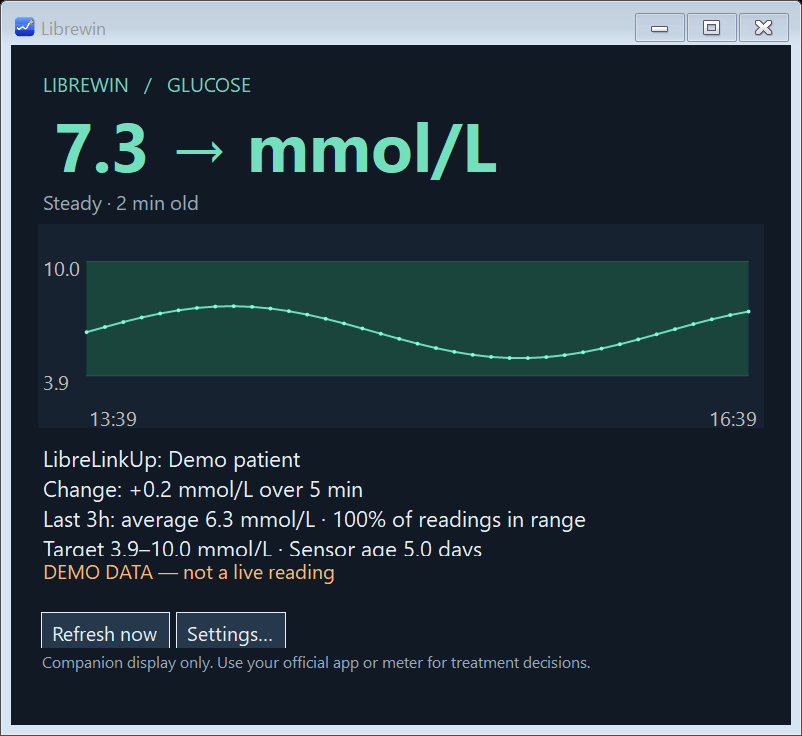
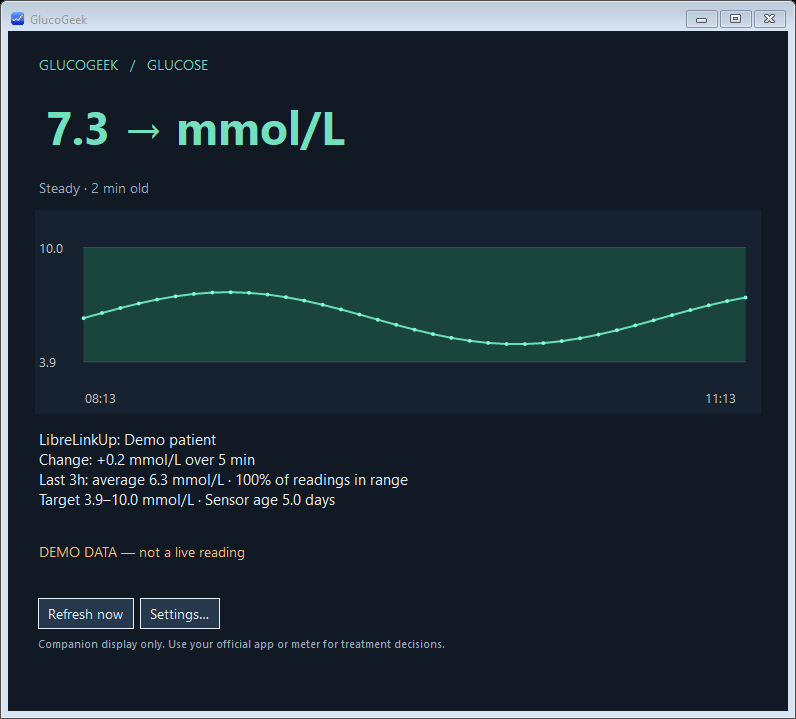
Rename Windows app to GlucoGeek with compatible installer upgrade and profile

diff --git a/Program.cs b/Program.cs
@@ -1,6 +1,6 @@
 using System.Runtime.InteropServices;
 
-namespace Librewin;
+namespace GlucoGeek;
 
 internal static class Program
 {
@@ -40,10 +40,11 @@ internal static class Program
             bitmap.Save(args.Last());
             return 0;
         }
+        // Share the previous name's lock to prevent two versions polling at once.
         using var mutex = new Mutex(true, @"Local\Librewin", out bool first);
-        if (!first) { MessageBox.Show("Librewin is already running. Click its system tray icon.", "Librewin"); return 0; }
+        if (!first) { MessageBox.Show("GlucoGeek is already running. Click its system tray icon.", "GlucoGeek"); return 0; }
         try { Application.Run(new TrayApp(Settings.Load(), args.Contains("--background"))); }
-        catch (Exception ex) { MessageBox.Show("Librewin could not start: " + ex.Message, "Librewin", MessageBoxButtons.OK, MessageBoxIcon.Error); return 1; }
+        catch (Exception ex) { MessageBox.Show("GlucoGeek could not start: " + ex.Message, "GlucoGeek", MessageBoxButtons.OK, MessageBoxIcon.Error); return 1; }
         return 0;
     }
 }
@@ -52,7 +53,7 @@ internal sealed class TrayApp : ApplicationContext
 {
     private Settings settings;
     private IGlucoseClient client;
-    private readonly NotifyIcon tray = new() { Visible = true, Text = "Librewin" };
+    private readonly NotifyIcon tray = new() { Visible = true, Text = "GlucoGeek" };
     private Icon? currentIcon;
     private readonly Dashboard dashboard = new();
     private readonly System.Windows.Forms.Timer timer = new() { Interval = 15000 };
@@ -69,11 +70,11 @@ internal sealed class TrayApp : ApplicationContext
         _ = dashboard.Handle;
         SynchronizationContext.SetSynchronizationContext(new WindowsFormsSynchronizationContext());
         var menu = new ContextMenuStrip();
-        menu.Items.Add("Open Librewin", null, (_, _) => Open());
+        menu.Items.Add("Open GlucoGeek", null, (_, _) => Open());
         menu.Items.Add("Refresh now", null, async (_, _) => await Refresh());
         menu.Items.Add("Settings…", null, async (_, _) => await Configure());
         menu.Items.Add(new ToolStripSeparator());
-        menu.Items.Add("Quit Librewin", null, (_, _) => ExitThread());
+        menu.Items.Add("Quit GlucoGeek", null, (_, _) => ExitThread());
         tray.ContextMenuStrip = menu;
         tray.MouseClick += (_, e) => { if (e.Button == MouseButtons.Left) Open(); };
         dashboard.RefreshRequested += async () => await Refresh();
@@ -137,7 +138,7 @@ internal sealed class TrayApp : ApplicationContext
             currentIcon = icon;
         }
         finally { DestroyIcon(handle); }
-        string tooltip = "Librewin: " + value + (snapshot == null ? "" : " " + (settings.IsMmol(snapshot) ? "mmol/L" : "mg/dL") + (settings.ShowTrend ? " " + snapshot.Current.Arrow : "")) + (error.Length > 0 ? " — refresh failed" : stale ? " — stale / unavailable" : "");
+        string tooltip = "GlucoGeek: " + value + (snapshot == null ? "" : " " + (settings.IsMmol(snapshot) ? "mmol/L" : "mg/dL") + (settings.ShowTrend ? " " + snapshot.Current.Arrow : "")) + (error.Length > 0 ? " — refresh failed" : stale ? " — stale / unavailable" : "");
         tray.Text = tooltip[..Math.Min(63, tooltip.Length)];
     }
     [DllImport("user32.dll")] private static extern bool DestroyIcon(IntPtr icon);

diff --git a/Settings.cs b/Settings.cs
@@ -3,7 +3,7 @@ using System.Text;
 using System.Text.Json;
 using Microsoft.Win32;
 
-namespace Librewin;
+namespace GlucoGeek;
 
 internal sealed class Settings
 {
@@ -26,6 +26,7 @@ internal sealed class Settings
     public string ApiVersion { get; set; } = "4.16.0";
     public string ApiProduct { get; set; } = "llu.ios";
     public string UserAgent { get; set; } = "Mozilla/5.0 (iPhone; CPU OS 17_4.1 like Mac OS X) AppleWebKit/536.26 (KHTML, like Gecko) Version/17.4.1 Mobile/10A5355d Safari/8536.25";
+    // Preserve the original profile so upgrading keeps both providers' protected credentials.
     public static string Location => Path.Combine(Environment.GetFolderPath(Environment.SpecialFolder.LocalApplicationData), "Librewin", "settings.json");
     public static Settings Load() => File.Exists(Location) ? JsonSerializer.Deserialize<Settings>(File.ReadAllText(Location)) ?? new() : new();
     public string Password => PasswordProtected.Length == 0 ? "" : Encoding.UTF8.GetString(ProtectedData.Unprotect(Convert.FromBase64String(PasswordProtected), null, DataProtectionScope.CurrentUser));
@@ -40,12 +41,13 @@ internal sealed class Settings
     public bool IsMmol(Snapshot snapshot) => Unit == "mmol/L" || Unit == "Automatic" && snapshot.Mmol;
     public static bool Startup
     {
-        get { using var key = Registry.CurrentUser.OpenSubKey(@"Software\Microsoft\Windows\CurrentVersion\Run"); return key?.GetValue("Librewin") is string; }
+        get { using var key = Registry.CurrentUser.OpenSubKey(@"Software\Microsoft\Windows\CurrentVersion\Run"); return key?.GetValue("GlucoGeek") is string || key?.GetValue("Librewin") is string; }
         set
         {
             using var key = Registry.CurrentUser.CreateSubKey(@"Software\Microsoft\Windows\CurrentVersion\Run");
-            if (value) key.SetValue("Librewin", "\"" + Application.ExecutablePath + "\" --background");
-            else key.DeleteValue("Librewin", false);
+            if (value) key.SetValue("GlucoGeek", "\"" + Application.ExecutablePath + "\" --background");
+            else key.DeleteValue("GlucoGeek", false);
+            key.DeleteValue("Librewin", false);
         }
     }
 }

diff --git a/Dashboard.cs b/Dashboard.cs
@@ -1,6 +1,6 @@
 using System.Drawing.Drawing2D;
 
-namespace Librewin;
+namespace GlucoGeek;
 
 internal sealed class Dashboard : Form
 {
@@ -15,13 +15,13 @@ internal sealed class Dashboard : Form
     public Dashboard()
     {
         Icon = Icon.ExtractAssociatedIcon(Application.ExecutablePath);
-        Text = "Librewin"; ClientSize = new Size(580, 650); MinimumSize = new Size(550, 640);
+        Text = "GlucoGeek"; ClientSize = new Size(580, 650); MinimumSize = new Size(550, 640);
         StartPosition = FormStartPosition.CenterScreen; BackColor = Color.FromArgb(16, 25, 36); ForeColor = Color.FromArgb(230, 238, 247);
         Font = new Font("Segoe UI", 10); AutoScaleMode = AutoScaleMode.Dpi;
         var layout = new TableLayoutPanel { Dock = DockStyle.Fill, Padding = new Padding(24), ColumnCount = 1, RowCount = 8 };
         foreach (int h in new[] { 30, 82, 40, 210, 125, 50, 45 }) layout.RowStyles.Add(new RowStyle(SizeType.Absolute, h));
         layout.RowStyles.Add(new RowStyle(SizeType.Percent, 100));
-        layout.Controls.Add(new Label { Text = "LIBREWIN   /   GLUCOSE", Dock = DockStyle.Fill, ForeColor = Color.FromArgb(114, 210, 188) });
+        layout.Controls.Add(new Label { Text = "GLUCOGEEK   /   GLUCOSE", Dock = DockStyle.Fill, ForeColor = Color.FromArgb(114, 210, 188) });
         layout.Controls.Add(headline); layout.Controls.Add(status); layout.Controls.Add(chart); layout.Controls.Add(details); layout.Controls.Add(error);
         var buttons = new FlowLayoutPanel { Dock = DockStyle.Fill };
         var settings = new Button { Text = "Settings…", AutoSize = true };

diff --git a/SettingsDialog.cs b/SettingsDialog.cs
@@ -1,4 +1,4 @@
-namespace Librewin;
+namespace GlucoGeek;
 
 internal sealed class SettingsDialog : Form
 {
@@ -6,7 +6,7 @@ internal sealed class SettingsDialog : Form
     public SettingsDialog(Settings current)
     {
         Icon = Icon.ExtractAssociatedIcon(Application.ExecutablePath);
-        Result = current.Copy(); Text = "Librewin settings"; ClientSize = new Size(610, 650);
+        Result = current.Copy(); Text = "GlucoGeek settings"; ClientSize = new Size(610, 650);
         FormBorderStyle = FormBorderStyle.FixedDialog; MaximizeBox = false; MinimizeBox = false;
         StartPosition = FormStartPosition.CenterParent; AutoScaleMode = AutoScaleMode.Dpi; Font = new Font("Segoe UI", 10);
         var root = new TableLayoutPanel { Dock = DockStyle.Fill, Padding = new Padding(20), ColumnCount = 1, RowCount = 5 };

diff --git a/DexcomClient.cs b/DexcomClient.cs
@@ -4,7 +4,7 @@ using System.Text.Json;
 using System.Text.RegularExpressions;
 using System.Globalization;
 
-namespace Librewin;
+namespace GlucoGeek;
 
 // Independent Share protocol implementation; protocol reference: gagebenne/pydexcom.
 // This is an unofficial cloud integration, not a direct sensor connection.

diff --git a/LibreLinkClient.cs b/LibreLinkClient.cs
@@ -3,7 +3,7 @@ using System.Security.Cryptography;
 using System.Text;
 using System.Text.Json;
 
-namespace Librewin;
+namespace GlucoGeek;
 
 internal sealed class SessionExpired : Exception { }
 internal sealed class LibreLinkClient : IGlucoseClient

diff --git a/DexcomTests.cs b/DexcomTests.cs
@@ -1,7 +1,7 @@
 using System.Net;
 using System.Text;
 using System.Text.Json;
-namespace Librewin;
+namespace GlucoGeek;
 
 internal static class DexcomTests
 {

diff --git a/SelfTests.cs b/SelfTests.cs
@@ -2,7 +2,7 @@ using System.Net;
 using System.Text;
 using System.Text.Json;
 
-namespace Librewin;
+namespace GlucoGeek;
 
 internal static class SelfTests
 {

diff --git a/Models.cs b/Models.cs
@@ -1,7 +1,7 @@
 using System.Globalization;
 using System.Text.Json;
 
-namespace Librewin;
+namespace GlucoGeek;
 
 internal static class Wire
 {

diff --git a/TrayArtwork.cs b/TrayArtwork.cs
@@ -1,6 +1,6 @@
 using System.Drawing.Drawing2D;
 
-namespace Librewin;
+namespace GlucoGeek;
 
 internal static class TrayArtwork
 {

diff --git a/IGlucoseClient.cs b/IGlucoseClient.cs
@@ -1,4 +1,4 @@
-namespace Librewin;
+namespace GlucoGeek;
 
 internal interface IGlucoseClient : IDisposable
 {

diff --git a/README.md b/README.md
@@ -1,16 +1,18 @@
-# Librewin
+# GlucoGeek for Windows
 
-**Your glucose readings, at a glance on your Windows PC.**
+**Your glucose, beside the clock.**
 
-Librewin is a small Windows app that displays readings from **LibreLinkUp** or **Dexcom G7**. A coloured arrow beside the Windows clock shows your glucose trend. Click it to see your latest reading and a three-hour chart.
+GlucoGeek is a small Windows app that displays readings from **LibreLinkUp** or **Dexcom G7**. A coloured arrow beside the Windows clock shows your glucose trend. Click it to see your latest reading and a three-hour chart.
 
-**[Download the Windows installer](https://github.com/whistle4it/Librewin/releases/latest)** · [Report a problem](https://github.com/whistle4it/Librewin/issues)
+**[Download the Windows installer](https://github.com/whistle4it/GlucoGeek-Windows/releases/latest)** · [Report a problem](https://github.com/whistle4it/GlucoGeek-Windows/issues)
 
 > This repository is private. You need to sign in to GitHub with an account that has access to download the installer.
 
-![Librewin dashboard showing a glucose reading, steady trend arrow, three-hour chart and target range using demo data](docs/images/dashboard-demo.png)
+![GlucoGeek dashboard showing a glucose reading, steady trend arrow, three-hour chart and target range using demo data](docs/images/dashboard-demo.png)
 
 *Example with made-up readings, shown in mmol/L. You can also choose mg/dL. Sensor age is shown for LibreLinkUp when available; it is not available for Dexcom.*
+
+GlucoGeek was previously called Librewin. The installer upgrades the same app and keeps your saved settings. Looking for the Mac version? See [GlucoGeek for macOS](https://github.com/whistle4it/GlucoGeek-macOS).
 
 ## What you need
 
@@ -18,15 +20,15 @@ Librewin is a small Windows app that displays readings from **LibreLinkUp** or *
 - An internet connection.
 - A LibreLinkUp follower account, or the Dexcom account used by the person wearing a G7 sensor, with Share enabled.
 
-The installer includes everything needed to run Librewin. You do not need to install .NET separately or use a command line.
+The installer includes everything needed to run GlucoGeek. You do not need to install .NET separately or use a command line.
 
-## Install Librewin
+## Install GlucoGeek
 
-1. Open the **[download page](https://github.com/whistle4it/Librewin/releases/latest)**.
-2. Under **Assets**, click the file whose name ends in **`Setup-x64.exe`**. For version 0.3.1, this is `Librewin-v0.3.1-Setup-x64.exe`. Choose this installer; the “Source code” files are for developers.
+1. Open the **[download page](https://github.com/whistle4it/GlucoGeek-Windows/releases/latest)**.
+2. Under **Assets**, click the file whose name ends in **`Setup-x64.exe`**. For version 0.4.0, this is `GlucoGeek-v0.4.0-Setup-x64.exe`. Choose this installer; the “Source code” files are for developers.
 3. When the download finishes, open the file from your browser's downloads list or your **Downloads** folder.
-4. Follow the installer. Choose **Start Librewin when I sign in to Windows** if you want it to open automatically. You can also choose to add a desktop shortcut.
-5. Launch **Librewin** from the installer's finish page or the Windows **Start** menu.
+4. Follow the installer. Choose **Start GlucoGeek when I sign in to Windows** if you want it to open automatically. You can also choose to add a desktop shortcut.
+5. Launch **GlucoGeek** from the installer's finish page or the Windows **Start** menu.
 6. Open **Settings…** and follow the instructions for your glucose source below.
 
 The app installs for your Windows account without needing administrator access. The installer is currently unsigned, so Windows may show an “unknown publisher” warning. Download only from this repository's release page. If your PC blocks installation, check with the person who manages it.
@@ -42,22 +44,22 @@ The app installs for your Windows account without needing administrator access. 
 5. Leave **API version**, **API product** and **API User-Agent** at their existing values unless you are troubleshooting with the developer.
 6. Click **Save & connect**.
 
-The sensor wearer's phone must continue uploading readings for Librewin to receive them.
+The sensor wearer's phone must continue uploading readings for GlucoGeek to receive them.
 
 ### Dexcom G7
 
 1. On the sensor wearer's phone, open the official **Dexcom G7** app and enable **Connections → Share**. Complete the Share setup and keep the phone uploading readings.
-2. In Librewin, choose **Dexcom G7** under **Glucose source**.
+2. In GlucoGeek, choose **Dexcom G7** under **Glucose source**.
 3. Enter the **sensor wearer's Dexcom username and password**. A Dexcom Follow account will not work here.
 4. Select the region for that Dexcom account:
    - **Outside US** for the UK, Europe and other accounts outside the US and Japan.
    - **US** for a US account.
    - **Japan** for a Japanese account.
 5. Choose your **Display units**. Select **mmol/L** if that is what you normally use. For Dexcom, **Automatic** displays **mg/dL**.
-6. Review the **Low bound** and **High bound**. These set the colours and target range in Librewin only. They are entered in **mg/dL**, even if you display mmol/L, and do not change your G7 alerts.
+6. Review the **Low bound** and **High bound**. These set the colours and target range in GlucoGeek only. They are entered in **mg/dL**, even if you display mmol/L, and do not change your G7 alerts.
 7. Click **Save & connect**.
 
-Librewin receives readings over the internet through Dexcom Share; it does not connect directly to the sensor.
+GlucoGeek receives readings over the internet through Dexcom Share; it does not connect directly to the sensor.
 
 ## Use the app day to day
 
@@ -80,17 +82,17 @@ The **system tray** is the area beside the clock at the bottom of your Windows s
 
 - **Hover over the tray icon** to see the exact glucose reading and units.
 - **Click the tray icon** to open the chart, reading age and recent statistics.
-- **Right-click the tray icon** to refresh, open settings or choose **Quit Librewin**.
-- Closing the chart window keeps Librewin running in the tray.
+- **Right-click the tray icon** to refresh, open settings or choose **Quit GlucoGeek**.
+- Closing the chart window keeps GlucoGeek running in the tray.
 - In **Settings…**, you can change units, refresh frequency and **Start with Windows**.
 
-**Can't see the icon?** Click the small **^** beside the Windows clock to check hidden icons. You can drag Librewin's icon beside the clock, or use Windows taskbar settings to choose which tray icons are visible.
+**Can't see the icon?** Click the small **^** beside the Windows clock to check hidden icons. You can drag GlucoGeek's icon beside the clock, or use Windows taskbar settings to choose which tray icons are visible.
 
 ## Update or uninstall
 
-**To update:** right-click the tray icon and choose **Quit Librewin**, then download and run the latest installer. Your saved account details and preferences are kept. Open Librewin from the Start menu afterward.
+**To update:** right-click the tray icon and choose **Quit GlucoGeek**, then download and run the latest installer. Your saved account details and preferences are kept. Open GlucoGeek from the Start menu afterward.
 
-**To uninstall:** open Windows **Settings → Apps**, find **Librewin** in **Installed apps** (Windows 11) or **Apps & features** (Windows 10), and choose **Uninstall**. Saved account settings are retained for a later reinstall. To remove saved credentials for a source, use **Sign out of this source** in Librewin before uninstalling.
+**To uninstall:** open Windows **Settings → Apps**, find **GlucoGeek** in **Installed apps** (Windows 11) or **Apps & features** (Windows 10), and choose **Uninstall**. Saved account settings are retained for a later reinstall. To remove saved credentials for a source, use **Sign out of this source** in GlucoGeek before uninstalling.
 
 If you previously used a ZIP download, use the installer for future updates and launch the app from the Start menu. Older extracted folders are not automatically removed.
 
@@ -104,19 +106,19 @@ If you previously used a ZIP download, use the installer for future updates and 
 | The wrong person's readings appear | Check **Exact patient name** against LibreLinkUp, then reconnect. |
 | The numbers look unfamiliar | Check whether your usual units are **mmol/L** or **mg/dL** and select them in Settings. |
 | The app says it is already running | Look beside the clock and in hidden tray icons, then click its icon. |
-| Windows opens an older copy | Quit it, run the latest installer, and open Librewin from the Start menu. Remove any old shortcuts you created yourself. |
+| Windows opens an older copy | Quit it, run the latest installer, and open GlucoGeek from the Start menu. Remove any old shortcuts you created yourself. |
 
-If you still need help, **[report a problem](https://github.com/whistle4it/Librewin/issues)**. Include your app version and what happened. Do not post passwords, account details or screenshots containing personal readings.
+If you still need help, **[report a problem](https://github.com/whistle4it/GlucoGeek-Windows/issues)**. Include your app version and what happened. Do not post passwords, account details or screenshots containing personal readings.
 
 ## Privacy and important information
 
 Passwords are protected for your Windows user account. Readings and sign-in session tokens are kept in memory rather than saved to disk. Account names and display preferences are saved locally.
 
-Librewin is an unofficial companion display, not a medical device, and is not affiliated with Abbott or Dexcom. Readings can be delayed if the sensor wearer's phone has not uploaded them. **Use your official app or meter for treatment decisions.** Librewin does not provide alarms, insulin advice or treatment calculations.
+GlucoGeek is an unofficial companion display, not a medical device, and is not affiliated with Abbott or Dexcom. Readings can be delayed if the sensor wearer's phone has not uploaded them. **Use your official app or meter for treatment decisions.** GlucoGeek does not provide alarms, insulin advice or treatment calculations.
 
 ## About the project
 
-Librewin is the Windows port of **[LibreMac](https://github.com/whistle4it/libremac)** and uses its original app icon.
+GlucoGeek is the Windows port of **[GlucoGeek for macOS](https://github.com/whistle4it/GlucoGeek-macOS)** and uses its original app icon.
 
 Looking for build instructions, technical details or source attribution? See the **[developer guide](docs/DEVELOPER.md)**.
 
